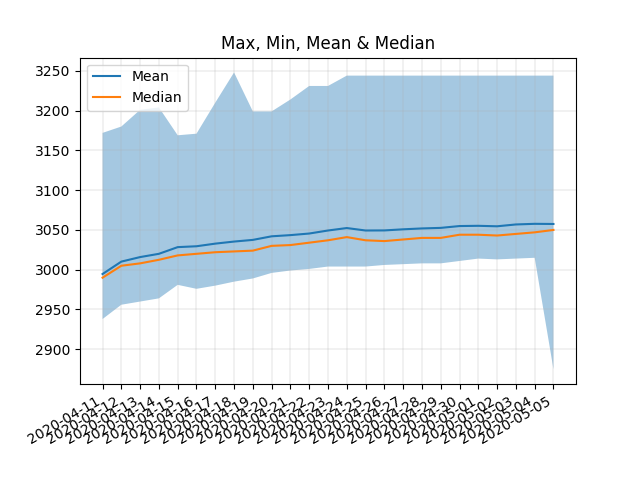
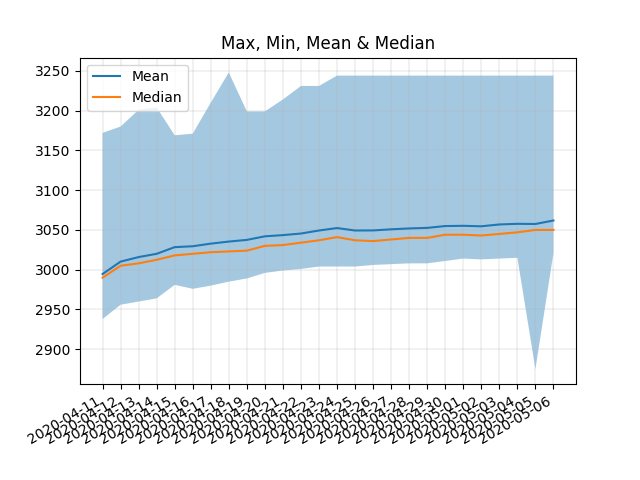
Wed May  6 15:30:15 EDT 2020

diff --git a/README.md b/README.md
@@ -1,10 +1,11 @@
 # MMR Drift Status
 
-**Last Updated (UTC):** 2020-05-05 21:15:13.482540
+**Last Updated (UTC):** 2020-05-06 19:30:14.703526
 ![Figure 1](/images/fig1.png)
 ![Figure 2](/images/fig2.png)
 |date| min| max| mean| drift_daily| drift_total| median| stdev|
 |:---|:---|:---|:---|:---|:---|:---|:--- |
+|2020-05-06| 3021| 3244| 3061.9| 4.3| 67.3| 3050.0| 37.5|
 |2020-05-05| 2875| 3244| 3057.5| -0.2| 62.9| 3050.0| 45.6|
 |2020-05-04| 3015| 3244| 3057.7| 0.8| 63.1| 3047.0| 38.5|
 |2020-05-03| 3014| 3244| 3056.9| 2.3| 62.3| 3045.0| 39.0|
